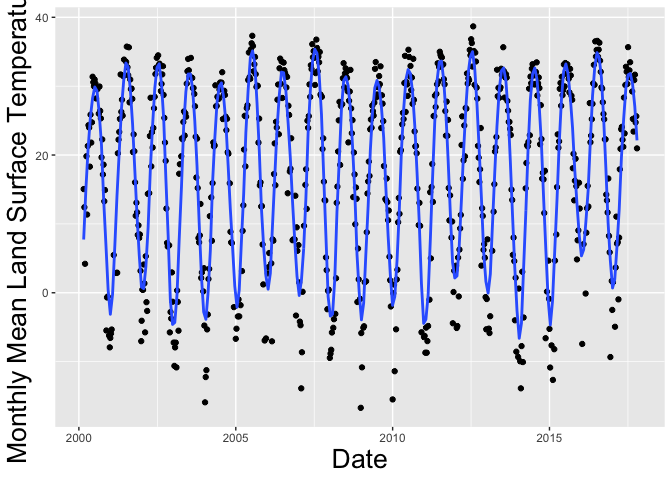
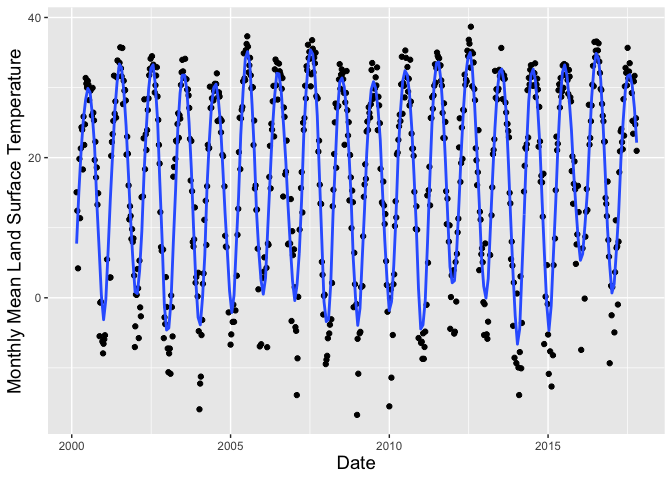
plot font size fixed, warnings still there

Changed region(s): [[0.0, 0.0, 1.0, 1.0], [0.75, 0.8125, 0.7812, 0.8438], [0.4375, 0.8125, 0.4688, 0.8438]]

diff --git a/week_10/case_study_10.md b/week_10/case_study_10.md
@@ -218,18 +218,14 @@ renamed_df <- combined_df %>%
 lst_final_plot <- ggplot(renamed_df, aes(date, temp)) + geom_point() + 
   geom_smooth(span = 0.05, n = 250, se = FALSE) + 
   labs(x = "Date", y = "Monthly Mean Land Surface Temperature") + 
-  theme(axis.title = element_text(size = 10))
+  theme(axis.title = element_text(size = 14))
+print(lst_final_plot)
 ```
 
-    ## `geom_smooth()` using method = 'loess' and formula 'y ~ x'
+![](case_study_10_files/figure-gfm/ggplotlst-1.png)<!-- -->
 
-    ## Warning: Removed 82 rows containing non-finite values (stat_smooth).
-
-    ## Warning: Removed 82 rows containing missing values (geom_point).
-
-![](case_study_10_files/figure-gfm/lstfinalplot-1.png)<!-- -->
-
-### Learned how to use span and n from <https://ggplot2.tidyverse.org/reference/geom_smooth.html>
+Learned how to use span and n from
+<https://ggplot2.tidyverse.org/reference/geom_smooth.html>
 
 # Summarizing Weekly Data to Monthly Climatologies
 
@@ -243,7 +239,8 @@ tmonth <- as.numeric(format(getZ(lst),"%m"))
 lst_month <- stackApply(lst, tmonth, fun = mean)
 ```
 
-### Tina helped with the stackApply() step
+Tina helped with the stackApply()
+step
 
 ## Setting Names of the Layers to Months
 
@@ -258,11 +255,14 @@ month_plot <- gplot(lst_month) + geom_raster(aes(fill = value)) + facet_wrap(~va
   scale_fill_gradient2(low = "red", mid = "white", 
                        high = "blue", midpoint = 15) + coord_equal() + 
   theme(axis.text = element_blank())
+print(month_plot)
 ```
 
-![](case_study_10_files/figure-gfm/monthplot-1.png)<!-- -->
+![](case_study_10_files/figure-gfm/plotmonths-1.png)<!-- -->
 
-### Tina sent me <https://ggplot2.tidyverse.org/reference/scale_gradient.html> to know how to color the facets
+Tina sent me
+<https://ggplot2.tidyverse.org/reference/scale_gradient.html> to know
+how to color the facets
 
 ## Finding Monthly Mean
 
@@ -342,10 +342,12 @@ variability_plot <- ggplot(filtered_lcd, aes(month, value))+ facet_wrap(~landcov
   ylab("Monthly Mean Land Surface Temperature (C)")+
   xlab("Month")+
   ggtitle("Land Surface Temperature in Urban and Forest areas in Buffalo, NY") + 
-  theme(axis.title = element_text(size = 16), axis.text = element_text(size = 12),
+  theme(axis.title = element_text(size = 12), axis.text = element_text(size = 12),
         plot.title = element_text(size = 14))
+print(variability_plot)
 ```
 
-    ## `geom_smooth()` using method = 'loess' and formula 'y ~ x'
+![](case_study_10_files/figure-gfm/lastplot-1.png)<!-- -->
 
-![](case_study_10_files/figure-gfm/gplotprint-1.png)<!-- -->
+Worked on the ending of this script with Tina bouncing ideas back and
+forth
